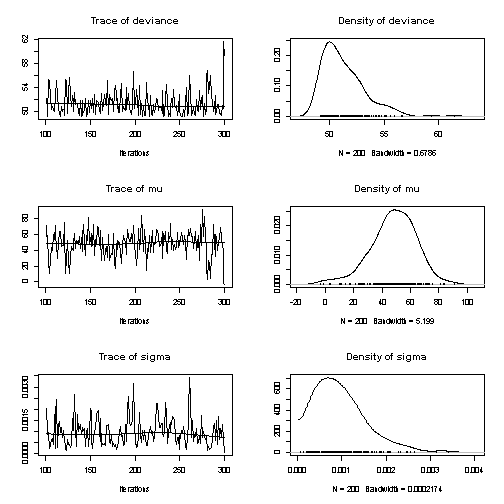
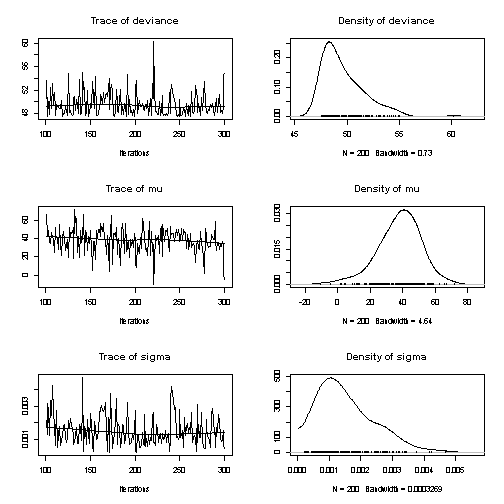
BUGS model graph

diff --git a/pres.md b/pres.md
@@ -14,7 +14,7 @@ x
 ```
 
 ```
-[1] 21 20 19 20 15
+[1] 18 26 19 16 18
 ```
  
  
@@ -36,7 +36,7 @@ $$p(x)=\int_\lambda (\prod\limits_{i=1}^n \dfrac{\lambda^{x_i}e^{-\lambda}}{x_i!
 
 
 
-Analytical solution
+Analytical solution - properties
 ========================================================
  
  - is accurate
@@ -83,7 +83,7 @@ Numerical computation
 ========================================================
 ![plot of chunk unnamed-chunk-4](pres-figure/unnamed-chunk-4-1.png) 
 
-Numerical computation
+Numerical computation - properties
 ========================================================
  - theoretically works always
  
@@ -163,7 +163,7 @@ Metropolis - Hastings
 And now switch to "histogram thinking"
 ![plot of chunk unnamed-chunk-12](pres-figure/unnamed-chunk-12-1.png) 
 
-Metropolis - Hastings
+Metropolis - Hastings - properties
 ========================================================
  - is more efficient than numerical integration
  
@@ -172,10 +172,17 @@ Metropolis - Hastings
  - need to set up the jumps
  
  - can be slow if we have many variables
-
+ 
 Metropolis - Hastings
 ========================================================
 ![plot of chunk unnamed-chunk-13](pres-figure/unnamed-chunk-13-1.png) 
+
+Metropolis - Hastings - properties
+========================================================
+ - samples from the beginning do not reflect the distribution
+ 
+ - correlation between subsequent steps
+
 
 Gibbs
 ========================================================
@@ -189,7 +196,7 @@ Gibbs
 
 Gibbs
 ========================================================
-Sampling from univariate distribution is always quite simply.
+Sampling from univariate distribution is always quite simple.
 
 If we knew $\sigma$ we could sample $\mu$ from $p(\mu|\sigma,y)$
 
@@ -234,17 +241,25 @@ Take sampled $\mu$ and sample $\sigma$ from $p(\sigma|\mu,y)$
 Repeat
 
 
-Gibbs
+Gibbs - properties
 ========================================================
  - for many parameters is more efficient than numerical integration and M-H
 
  - problem with camels
  
  - problem with cigars
-
-Gibbs
+ 
+Gibbs - properties
 ========================================================
 ![plot of chunk unnamed-chunk-21](pres-figure/unnamed-chunk-21-1.png) 
+
+Gibbs - properties
+========================================================
+ - samples from the beginning do not reflect the distribution
+ 
+ - correlation between subsequent steps
+
+
 
 MCMC
 ========================================================
@@ -254,13 +269,14 @@ MCMC
 BUGS language
 ========================================================
 There is a plenty of environments that can do Gibbs sampling for you
+
  - WinBUGS
  - OpenBUGS [www.openbugs.net](http://openbugs.net/w/FrontPage)
  - **JAGS** [mcmc-jags.sourceforge.net/](http://mcmc-jags.sourceforge.net/)
 
 ... and all those use BUGS language
 
-JAGS - preparing the data
+JAGS
 ========================================================
 
 ```r
@@ -273,58 +289,33 @@ my.data
 
 ```
 $y
-[1]  32.38750 111.87828  34.43014  87.51529  37.74286
+[1] 77.332797 -1.786264 45.065916 68.739789 33.683361
 
 $N
 [1] 5
 ```
 
-JAGS - model specification
+JAGS
 ========================================================
-We will fit this model to the data:
-$y_i \sim Normal(\mu, \sigma)$
+BUGS language works with graphs
 
-```
-model
-{
-  # p(mu) 
-  
-  # p(sigma) 
-  
-  # p(y|lambda)
-  
-}
-```
+![model](model.png)
 
-JAGS - model specification
+
+
+JAGS
 ========================================================
-We will fit this model to the data:
-$y_i \sim Normal(\mu, \sigma)$
 
 ```
 model
 {
   # p(mu) ... mu prior
-  
-  # p(sigma) ... sigma prior
-  
-  # p(y|lambda) ... likelihood
-  
-}
-```
-
-JAGS - model specification
-========================================================
-We will fit this model to the data:
-$y_i \sim Normal(\mu, \sigma)$
-
-```
-model
-{
-  # priors
     mu ~ dnorm (0, 0.001)
+    
+  # p(sigma) ... sigma prior
     sigma ~ dunif(0, 100)
-  # likelihood
+    
+  # p(y|mu, sigma) ... likelihood
     for(i in 1:N)
     {
       y[i] ~ dnorm(mu, sigma)    
@@ -332,7 +323,7 @@ model
 }
 ```
 
-JAGS - model specification
+JAGS
 ========================================================
 We will dump the model to a file using ```cat("", file="")```
 
@@ -353,7 +344,7 @@ model
 ", file="my_model.txt")
 ```
 
-JAGS - model specification
+JAGS
 ========================================================
 
 ```r
@@ -371,23 +362,44 @@ Compiling model graph
 Initializing model
 ```
 
-JAGS - model specification
+JAGS
 ========================================================
 ![plot of chunk unnamed-chunk-25](pres-figure/unnamed-chunk-25-1.png) 
 
 
-STAN sampler
+STAN - properties
 =======================================================
- - [mc-stan.org](mc-stan.org)
- - uses addaptive combination of Gibbs ant Metropolis - Hastings
- sampler
+[mc-stan.org](mc-stan.org)
+ 
+ - uses more sophisticated MCMC sampling than Gibbs or M-H
+ 
+ - suffers less from steps autocorrelation
  
  - may be more efficient for complicated posteriors (cigars, camels)
  
- - is more difficult to command
+ - language is more difficult to command then BUGS
 
 
 INLA
 ========================================================
-dodelat
+(Integrated Nested Laplace Approximation)
 
+[www.r-inla.org](www.r-inla.org)
+
+Uses the idea that in certain types of models $p(some_parameters|other_parameters,data)$ can be aproximated by normal distribution.
+
+This makes the expression $p(data|parameters)*p(parameters)$ integrable.
+
+
+INLA
+========================================================
+
+![plot of chunk unnamed-chunk-26](pres-figure/unnamed-chunk-26-1.png) 
+
+INLA - properties
+========================================================
+ - fast
+ 
+ - does not suffer from sampling issues
+ 
+ - applicable only to some classes of models (for details see [http://www.r-inla.org/models/latent-models](http://www.r-inla.org/models/latent-models))
